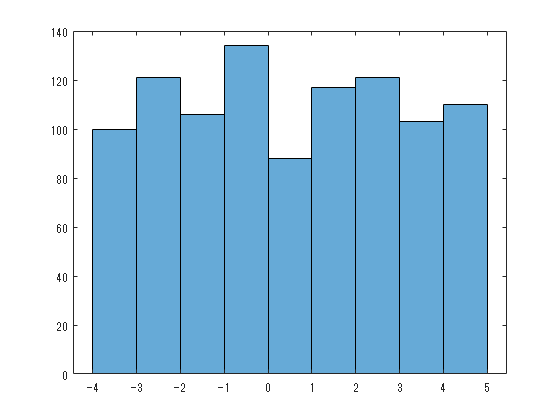
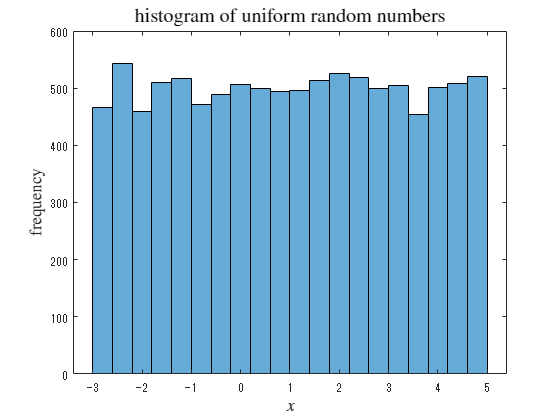
update

diff --git a/Livescripts/probability_distribution_statA_240205.md b/Livescripts/probability_distribution_statA_240205.md
@@ -57,7 +57,9 @@
 例として、下限 $-3$ 、上限 $+5$ の連続一様分布オブジェクトを作成する。
 
 ```matlab
-pd1 = makedist("Uniform", lower=-4, upper=5);
+xl = -3;
+xu = 5;
+pd1 = makedist("Uniform", lower=xl, upper=xu);
 ```
 <a name="H_D518924A"></a>
 ## 分布の描画
@@ -67,13 +69,13 @@ pd1 = makedist("Uniform", lower=-4, upper=5);
 
 ```matlab
 x = -10:0.01:10;
-plot(x, pdf(pd1, x))
+    plot(x, pdf(pd1, x), 'b-', LineWidth=1.5, DisplayName="uniform")
 hold on
     pd1_m = mean(pd1)
 ```
 
 ```TextOutput
-pd1_m = 0.5000
+pd1_m = 1
 ```
 
 ```matlab
@@ -81,17 +83,18 @@ pd1_m = 0.5000
 ```
 
 ```TextOutput
-pd1_s = 2.5981
+pd1_s = 2.3094
 ```
 
 ```matlab
-    xline(pd1_m, 'r--')
-    xline(pd1_m + pd1_s, 'g--')
-    xline(pd1_m - pd1_s, 'g--')
+    xline(pd1_m, 'r--', LineWidth=1, DisplayName=" !!!EQ_5!!! ")
+    xline(pd1_m + pd1_s, 'k--', LineWidth=1, DisplayName=" !!!EQ_6!!! ")
+    xline(pd1_m - pd1_s, 'k--', LineWidth=1, DisplayName=" !!!EQ_6!!! ")
 hold off
 title('pdf of uniform distribution', Interpreter='latex', FontSize=15)
-xlabel(" !!!EQ_5!!! ", Interpreter="latex", FontSize=13)
-ylabel(" !!!EQ_6!!! ", Interpreter="latex", FontSize=13)
+xlabel(" !!!EQ_8!!! ", Interpreter="latex", FontSize=13)
+ylabel(" !!!EQ_9!!! ", Interpreter="latex", FontSize=13)
+legend(Interpreter="latex", Location="southwest")
 ```
 
 <center><img src="probability_distribution_statA_240205_media/figure_0.png" width="562" alt="figure_0.png"></center>
@@ -99,10 +102,10 @@ ylabel(" !!!EQ_6!!! ", Interpreter="latex", FontSize=13)
 
 ```matlab
 
-plot(x, cdf(pd1, x))
+plot(x, cdf(pd1, x), 'b-', LineWidth=1.5)
 title('cdf of uniform distribution', Interpreter='latex', FontSize=15)
-xlabel(" !!!EQ_5!!! ", Interpreter="latex", FontSize=13)
-ylabel(" !!!EQ_8!!! ", Interpreter="latex", FontSize=13)
+xlabel(" !!!EQ_8!!! ", Interpreter="latex", FontSize=13)
+ylabel(" !!!EQ_11!!! ", Interpreter="latex", FontSize=13)
 ```
 
 <center><img src="probability_distribution_statA_240205_media/figure_1.png" width="562" alt="figure_1.png"></center>
@@ -113,10 +116,13 @@ ylabel(" !!!EQ_8!!! ", Interpreter="latex", FontSize=13)
 ## 乱数の生成
 <a name="H_DD406E82"></a>
 
-乱数を生成し、ヒストグラムを描画する
+一様分布に従う乱数を10000個生成し、ヒストグラムを描画する
 
 ```matlab
-histogram(random(pd1,[1 1000]))
+histogram(random(pd1,[1 10000]), 20)
+title('histogram of uniform random numbers', Interpreter='latex', FontSize=15)
+xlabel(" $x$ ", Interpreter="latex", FontSize=13)
+ylabel("frequency", Interpreter="latex", FontSize=13)
 ```
 
 <center><img src="probability_distribution_statA_240205_media/figure_2.png" width="562" alt="figure_2.png"></center>
@@ -129,7 +135,8 @@ histogram(random(pd1,[1 1000]))
 例として、平均 1.7 の指数分布オブジェクトを作成する。
 
 ```matlab
-pd2 = makedist("Exponential", mu=1.7);
+mu = 1.7;
+pd2 = makedist("Exponential", mu);
 ```
 <a name="H_78792AA8"></a>
 ## 分布の描画
@@ -139,7 +146,7 @@ pd2 = makedist("Exponential", mu=1.7);
 
 ```matlab
 x = 0:0.01:10;
-plot(x, pdf(pd2, x))
+plot(x, pdf(pd2, x), 'b-', LineWidth=1.5, DisplayName=" $\mu =$ "+string(mu))
 hold on
     pd2_m = mean(pd2)
 ```
@@ -157,13 +164,14 @@ pd2_s = 1.7000
 ```
 
 ```matlab
-    xline(pd2_m, 'r--')
-    xline(pd2_m + pd2_s, 'g--')
-    xline(pd2_m - pd2_s, 'g--')
+    xline(pd2_m, 'r--', LineWidth=1, DisplayName=" !!!EQ_5!!! ")
+    xline(pd2_m + pd2_s, 'm--', LineWidth=1, DisplayName=" !!!EQ_6!!! ")
+    xline(pd2_m - pd2_s, 'c--', LineWidth=1, DisplayName=" !!!EQ_18!!! ")
 hold off
 title('pdf of exponential distribution', Interpreter='latex', FontSize=15)
-xlabel(" !!!EQ_5!!! ", Interpreter="latex", FontSize=13)
-ylabel(" !!!EQ_6!!! ", Interpreter="latex", FontSize=13)
+xlabel(" !!!EQ_8!!! ", Interpreter="latex", FontSize=13)
+ylabel(" !!!EQ_9!!! ", Interpreter="latex", FontSize=13)
+legend(Interpreter="latex")
 ```
 
 <center><img src="probability_distribution_statA_240205_media/figure_3.png" width="562" alt="figure_3.png"></center>
@@ -171,10 +179,11 @@ ylabel(" !!!EQ_6!!! ", Interpreter="latex", FontSize=13)
 
 ```matlab
 
-plot(x, cdf(pd2, x))
+plot(x, cdf(pd2, x), 'b-', LineWidth=1.5, DisplayName=" !!!EQ_15!!! "+string(mu))
 title('cdf of exponential distribution', Interpreter='latex', FontSize=15)
-xlabel(" !!!EQ_5!!! ", Interpreter="latex", FontSize=13)
-ylabel(" !!!EQ_8!!! ", Interpreter="latex", FontSize=13)
+xlabel(" !!!EQ_8!!! ", Interpreter="latex", FontSize=13)
+ylabel(" !!!EQ_11!!! ", Interpreter="latex", FontSize=13)
+legend(Interpreter="latex", Location="southeast")
 ```
 
 <center><img src="probability_distribution_statA_240205_media/figure_4.png" width="562" alt="figure_4.png"></center>
@@ -188,31 +197,21 @@ ylabel(" !!!EQ_8!!! ", Interpreter="latex", FontSize=13)
 乱数を生成し、ヒストグラムを描画する
 
 ```matlab
-rd2 = random(pd2,[1 1000])
-```
-
-```TextOutput
-rd2 = 1x1000    
-    0.2437    0.2620    3.8315    0.3468    0.7781    1.4436    1.0693    1.1215    0.9996    0.7206    0.2261    0.6882    2.5052    3.2356    1.4807    1.3627    0.3102    1.9166    1.1876    4.6345    1.6380    3.6151    1.0388    3.2250    0.7689    0.2457    1.4113    0.5708    1.8623    3.9440    0.1623    0.4053    0.0337    8.1615    2.1137    0.4172    0.1025    0.1833    3.6291    2.3150    0.2221    0.8732    2.7934    0.2664    2.4054    0.6343    1.1252    0.1999    0.1484    0.6290
-```
-
-```matlab
-histfit(rd2, 30,"exponential")
+rd2 = random(pd2,[1 1000]);
+f2 = fitdist(rd2',"exponential");
+h2 = histfit(rd2, 30,"exponential");
+h22 = h2(2);
+set(h22, DisplayName=" $\mu =$ "+string(f2.mu))
+title('histogram of exponential random numbers', Interpreter='latex', FontSize=15)
+xlabel(" $x$ ", Interpreter="latex", FontSize=13)
+ylabel("frequency", Interpreter="latex", FontSize=13)
+legend(h22, Interpreter="latex")
 ```
 
 <center><img src="probability_distribution_statA_240205_media/figure_5.png" width="562" alt="figure_5.png"></center>
 
 
-```matlab
-fitdist(rd2',"exponential")
-```
 
-```TextOutput
-ans = 
-  ExponentialDistribution
-  指数 分布
-    mu = 1.76639   [1.66182, 1.88119]
-```
 <a name="H_6A6D0036"></a>
 # 3．二項分布
 <a name="H_5B3758FE"></a>
@@ -221,7 +220,9 @@ ans =
 例として、 $N=100$ 、 $p=0.35$ の二項分布オブジェクトを作成する。
 
 ```matlab
-pd3 = makedist("Binomial", "N",100, "p",0.35);
+N3 = 100;
+p3 = 0.35;
+pd3 = makedist("Binomial", "N", N3, "p", p3);
 ```
 <a name="H_4AA3F57D"></a>
 ## 分布の描画
@@ -231,31 +232,18 @@ pd3 = makedist("Binomial", "N",100, "p",0.35);
 
 ```matlab
 x = 0:1:100;
-plot(x, pdf(pd3, x), 'o-')
+plot(x, pdf(pd3, x), 'bo-', LineWidth=1, DisplayName=" $N =$ "+string(N3)+", $p =$ "+string(p3))
 hold on
-    pd3_m = mean(pd3)
-```
-
-```TextOutput
-pd3_m = 35
-```
-
-```matlab
-    pd3_s = std(pd3)
-```
-
-```TextOutput
-pd3_s = 4.7697
-```
-
-```matlab
-    xline(pd3_m, 'r--')
-    xline(pd3_m + pd3_s, 'g--')
-    xline(pd3_m - pd3_s, 'g--')
+    pd3_m = mean(pd3);
+    pd3_s = std(pd3);
+    xline(pd3_m, 'r--', LineWidth=1, DisplayName=" $x = \mu$ ")
+    xline(pd3_m + pd3_s, 'm--', LineWidth=1, DisplayName=" $x = \mu + \sigma$ ")
+    xline(pd3_m - pd3_s, 'c--', LineWidth=1, DisplayName=" $x = \mu + \sigma$ ")
 hold off
 title('pdf of binomial distribution', Interpreter='latex', FontSize=15)
-xlabel(" !!!EQ_5!!! ", Interpreter="latex", FontSize=13)
-ylabel(" !!!EQ_6!!! ", Interpreter="latex", FontSize=13)
+xlabel(" $x$ ", Interpreter="latex", FontSize=13)
+ylabel(" $p(x)$ ", Interpreter="latex", FontSize=13)
+legend(Interpreter="latex")
 ```
 
 <center><img src="probability_distribution_statA_240205_media/figure_6.png" width="562" alt="figure_6.png"></center>
@@ -263,10 +251,10 @@ ylabel(" !!!EQ_6!!! ", Interpreter="latex", FontSize=13)
 
 ```matlab
 
-plot(x, cdf(pd2, x), 'o-')
+plot(x, cdf(pd3, x), 'bo-', LineWidth=1)
 title('cdf of binomial distribution', Interpreter='latex', FontSize=15)
-xlabel(" !!!EQ_5!!! ", Interpreter="latex", FontSize=13)
-ylabel(" !!!EQ_8!!! ", Interpreter="latex", FontSize=13)
+xlabel(" !!!EQ_8!!! ", Interpreter="latex", FontSize=13)
+ylabel(" !!!EQ_11!!! ", Interpreter="latex", FontSize=13)
 ```
 
 <center><img src="probability_distribution_statA_240205_media/figure_7.png" width="562" alt="figure_7.png"></center>
@@ -278,32 +266,21 @@ ylabel(" !!!EQ_8!!! ", Interpreter="latex", FontSize=13)
 乱数を生成し、ヒストグラムを描画する
 
 ```matlab
-rd3 = random(pd3,[1 1000])
-```
-
-```TextOutput
-rd3 = 1x1000    
-    36    37    40    27    33    41    34    41    34    32    42    33    33    36    38    33    36    35    37    37    31    41    35    36    47    29    36    31    31    34    41    34    32    42    39    31    39    38    35    39    35    30    28    38    29    39    29    31    30    34
-```
-
-```matlab
-histfit(rd3, 30,"normal")
+rd3 = random(pd3,[1 1000]);
+f3 = fitdist(rd3',"normal");
+h3 = histfit(rd3, 30,"normal");
+h32 = h3(2);
+set(h32, DisplayName=" $\mu =$ "+string(f3.mu))
+title('histogram of binomial random numbers', Interpreter='latex', FontSize=15)
+xlabel(" $x$ ", Interpreter="latex", FontSize=13)
+ylabel("frequency", Interpreter="latex", FontSize=13)
+legend(h32, Interpreter="latex")
 ```
 
 <center><img src="probability_distribution_statA_240205_media/figure_8.png" width="562" alt="figure_8.png"></center>
 
 
-```matlab
-fitdist(rd3',"normal")
-```
 
-```TextOutput
-ans = 
-  NormalDistribution
-  正規 分布
-       mu =  35.086   [34.8003, 35.3717]
-    sigma = 4.60389   [4.41058, 4.81505]
-```
 <a name="H_F4C44D8E"></a>
 # 4．正規分布（ガウス分布）
 <a name="H_FF1A670C"></a>
@@ -345,8 +322,8 @@ pd4_s = 2.1000
     xline(pd4_m - pd4_s, 'g--')
 hold off
 title('pdf of normal distribution', Interpreter='latex', FontSize=15)
-xlabel(" !!!EQ_5!!! ", Interpreter="latex", FontSize=13)
-ylabel(" !!!EQ_6!!! ", Interpreter="latex", FontSize=13)
+xlabel(" !!!EQ_8!!! ", Interpreter="latex", FontSize=13)
+ylabel(" !!!EQ_9!!! ", Interpreter="latex", FontSize=13)
 ```
 
 <center><img src="probability_distribution_statA_240205_media/figure_9.png" width="562" alt="figure_9.png"></center>
@@ -356,8 +333,8 @@ ylabel(" !!!EQ_6!!! ", Interpreter="latex", FontSize=13)
 
 plot(x, cdf(pd4, x), '-')
 title('cdf of normal distribution', Interpreter='latex', FontSize=15)
-xlabel(" !!!EQ_5!!! ", Interpreter="latex", FontSize=13)
-ylabel(" !!!EQ_8!!! ", Interpreter="latex", FontSize=13)
+xlabel(" !!!EQ_8!!! ", Interpreter="latex", FontSize=13)
+ylabel(" !!!EQ_11!!! ", Interpreter="latex", FontSize=13)
 ```
 
 <center><img src="probability_distribution_statA_240205_media/figure_10.png" width="562" alt="figure_10.png"></center>

diff --git a/README_j.md b/README_j.md
@@ -82,7 +82,7 @@
 | (1) [経験的確率と大数の法則](Livescripts/empirical_probability_statA_240205.md) | [ダウンロード](https://github.com/yoshy2003/StatMech_A/raw/main/Livescripts/empirical_probability_statA_240205.mlx) | [![Open in MATLAB Online](https://www.mathworks.com/images/responsive/global/open-in-matlab-online.svg)](https://matlab.mathworks.com/open/github/v1?repo=yoshy2003/StatMech_A&file=empirical_probability_statA_240205.mlx) |
 | (2) [基本的な確率分布](Livescripts/probability_distribution_statA_240205.md) | [ダウンロード](https://github.com/yoshy2003/StatMech_A/raw/main/Livescripts/probability_distribution_statA_240205.mlx) | [![Open in MATLAB Online](https://www.mathworks.com/images/responsive/global/open-in-matlab-online.svg)](https://matlab.mathworks.com/open/github/v1?repo=yoshy2003/StatMech_A&file=probabilityl_distributions_lec_v23.mlx) |
 | (3) コイン投げ問題 | 準備中 | [![Open in MATLAB Online](https://www.mathworks.com/images/responsive/global/open-in-matlab-online.svg)](https://matlab.mathworks.com/open/github/v1?repo=yoshy2003/StatMech_A&file=binomial_distribution_lec.mlx) |
-| (4) 中心極限定理 | 準備中 | [![Open in MATLAB Online](https://www.mathworks.com/images/responsive/global/open-in-matlab-online.svg)](https://matlab.mathworks.com/open/github/v1?repo=yoshy2003/StatMech_A&file=binomial_distribution_lec.mlx) |
+| (4) [中心極限定理](Livescripts/central_limit_theorem_statA_240205.md) | [ダウンロード](https://github.com/yoshy2003/StatMech_A/raw/main/Livescripts/central_limit_theorem_statA_240205.mlx) | [![Open in MATLAB Online](https://www.mathworks.com/images/responsive/global/open-in-matlab-online.svg)](https://matlab.mathworks.com/open/github/v1?repo=yoshy2003/StatMech_A&file=central_limit_theorem_statA_240205.mlx) |
 
 
 
